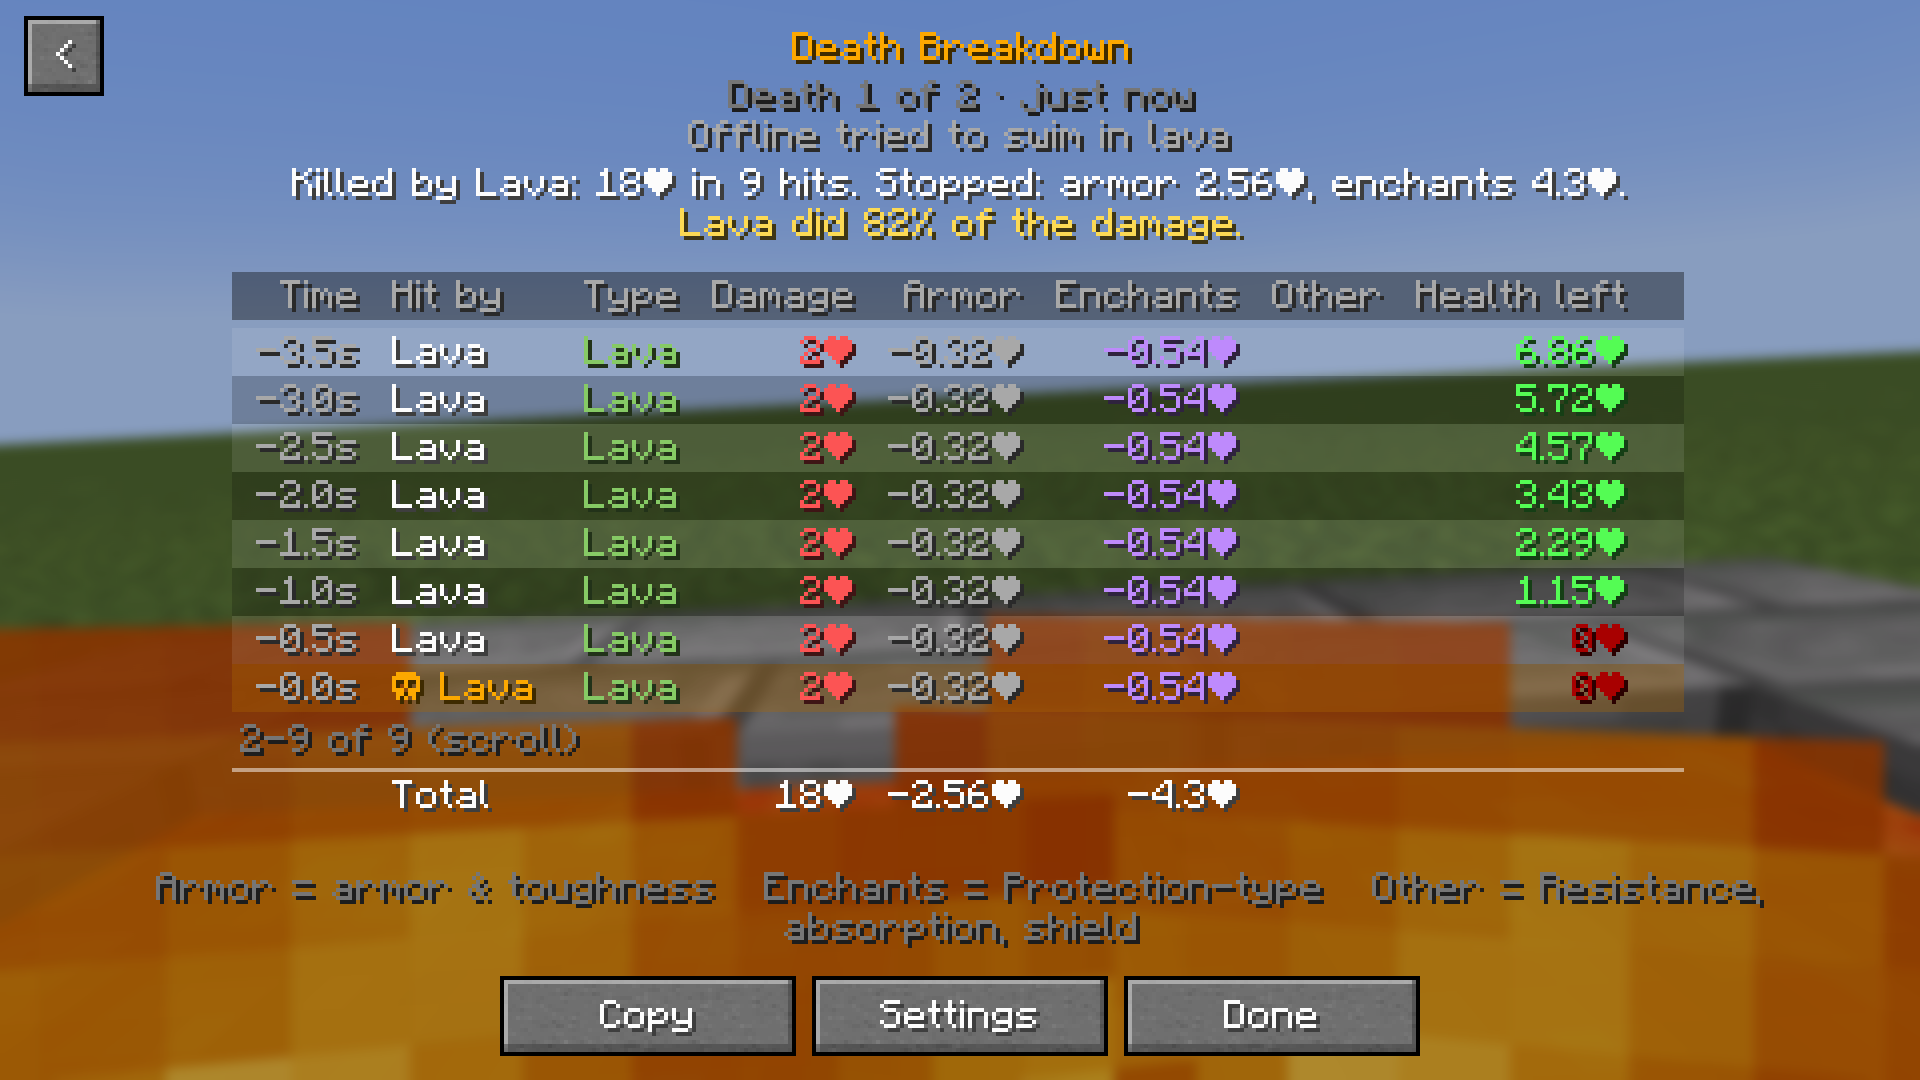
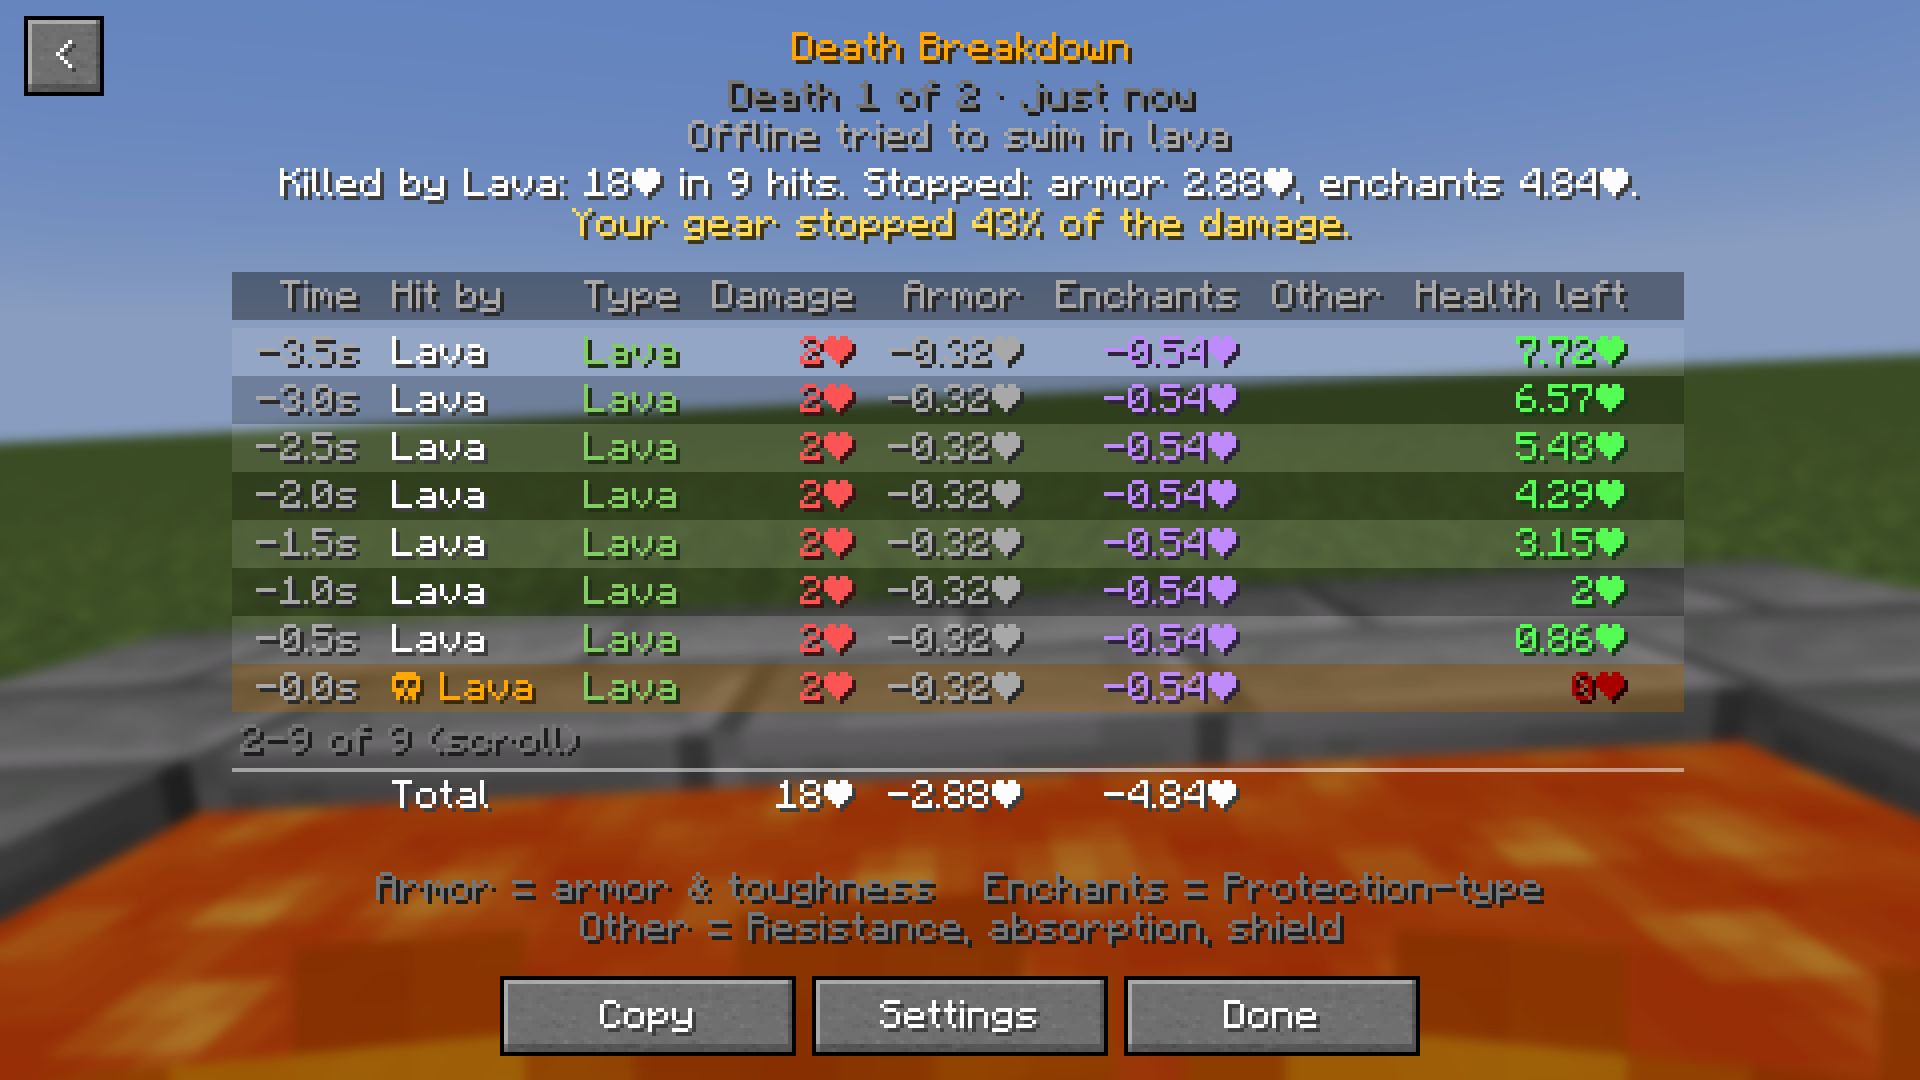
1.1.0 gallery: final shots and graphics (mod 15, plugin 14); publish uses plugin run 45008991740
Claude-Session: https://claude.ai/code/session_018RUrFUNWZAZWJggZqgw4K9

Changed region(s): [[0.0, 0.3056, 1.0, 1.0], [0.125, 0.1528, 0.875, 0.2444], [0.9062, 0.3056, 1.0, 0.3361]]

diff --git a/art/source/gallery.py b/art/source/gallery.py
@@ -172,7 +172,7 @@ def make_static():
     versions_card('Works where you play', 'One plugin jar for every Paper version',
                   ['Paper'], [(v, [True]) for v in VERSIONS],
                   ['Players need nothing installed: it all happens in chat and a book.',
-                   'Requires LogicLib Plugin 0.2.0 or newer in your plugins folder.'], 'plugin-04-versions.png', 44)
+                   'Requires LogicLib Plugin 0.2.0 or newer in your plugins folder.'], 'plugin-05-versions.png', 44)
 
 
 if __name__ == '__main__':
@@ -211,7 +211,7 @@ def three_steps(title, sub, crops, captions, out, seed):
     print('made', out)
 
 
-def grid4(title, sub, items, out, seed):
+def grid4(title, sub, items, out, seed, foot='Death Breakdown · by CosmicLogic'):
     """Four real screenshot crops in a 2x2 grid, each with a one-line caption."""
     im, d = base(seed, [(60, 40, 1860, 1040)])
     heading(d, title, sub)
@@ -219,7 +219,7 @@ def grid4(title, sub, items, out, seed):
     for (pic, cap), box in zip(items, boxes):
         panel(im, d, pic, box)
         d.text(((box[0] + box[2]) // 2, box[3] + 38), cap, font=T(30), fill=TITLE, anchor='mm')
-    footer(d)
+    footer(d, foot)
     im.save(os.path.join(OUT, out))
     print('made', out)
 
@@ -261,11 +261,11 @@ def mod_explainers():
     # What your gear blocked: three real recaps, three kinds of protection
     im, d = base(53, [(60, 40, 1860, 1040)])
     heading(d, 'See what your gear blocked', 'Armor and each Protection enchantment, in hearts')
-    crops = {'mod-recap-creeper.png': (300, 0, 1620, 640), 'mod-recap-lava.png': (232, 160, 1690, 840),
-             'mod-recap-hover.png': (232, 0, 1690, 640)}
+    crops = {'mod-recap-creeper.png': (232, 0, 1690, 640), 'mod-recap-lava.png': (232, 160, 1690, 840),
+             'mod-recap-hover.png': (232, 0, 1690, 820)}
     items = [('mod-recap-creeper.png', 'Creeper', 'Blast Protection IV', 'enchants stopped 3.71\u2665', ENCH),
-             ('mod-recap-lava.png', 'Lava', 'Fire Protection IV', 'enchants stopped 4.3\u2665', ENCH),
-             ('mod-recap-hover.png', 'Skeleton arrows', 'Iron armor', 'armor stopped 1.85\u2665', ARMOR)]
+             ('mod-recap-lava.png', 'Lava', 'Fire Protection IV', 'enchants stopped 4.84\u2665', ENCH),
+             ('mod-recap-hover.png', 'Zombie with an iron sword', 'Iron armor', 'armor stopped 9.84\u2665', ARMOR)]
     for i, (f, what, gear, num, col) in enumerate(items):
         x0 = 70 + i * 620
         panel(im, d, shot(f).crop(crops[f]), (x0, 230, x0 + 540, 560))
@@ -288,11 +288,11 @@ def mod_explainers():
 def plugin_explainers():
     im, d = base(61, [(60, 40, 1860, 1040)])
     heading(d, 'How it works on your server', 'Players see it in chat, no mod needed')
-    chat = shot('plugin-death-chat.png').crop((0, 875, 990, 1010))
+    chat = shot('plugin-death-chat.png').crop((0, 840, 1000, 970))
     px, py, sc = panel(im, d, chat, (170, 190, 1750, 380))
     stext(d, (110, (py + py + chat.height * sc) / 2), '1', F(40), SUB, 'mm', sh=3)
     d.text((W // 2, py + chat.height * sc + 46), 'After each death: a one-line summary in chat', font=T(32), fill=TITLE, anchor='mm')
-    hover = shot('plugin-chat-hover.png').crop((380, 40, 1240, 1080))
+    hover = shot('plugin-chat-hover.png').crop((380, 420, 1050, 1080))
     book = shot('plugin-book-mobs.png').crop((560, 0, 1360, 760))
     a1 = panel(im, d, hover, (250, 500, 860, 945))
     a2 = panel(im, d, book, (1060, 500, 1670, 945))
@@ -311,17 +311,24 @@ def plugin_explainers():
     a = panel(im, d, p1, (420, 200, 960, 960))
     b = panel(im, d, p2, (1000, 200, 1540, 960))
     px, py, s = a
-    for text, y, ty, col in [('What killed you', 330, 420, SUB), ('Total damage', 482, 600, DMG), ('Armor + enchants', 520, 760, ARMOR)]:
+    for text, y, ty, col in [('What killed you', 285, 330, SUB), ('Total damage', 357, 490, DMG), ('Armor + enchants', 411, 650, ARMOR), ('A tip (new)', 501, 810, SUB)]:
         l, t, r, bb = tag(d, (230, ty), text, col, T(28), anchor='mm')
-        arrow(d, (r + 4, ty), (px + 90 * s, py + y * s), col=col, w=5, head=16)
+        arrow(d, (r + 4, ty), (px + 110 * s, py + y * s), col=col, w=5, head=16)
     px, py, s = b
-    for text, y, ty, col in [('One page per hit', 141, 380, SUB), ('Every number', 480, 620, ARMOR)]:
+    for text, y, ty, col in [('One page per hit', 141, 380, SUB), ('Every number', 430, 620, ARMOR)]:
         l, t, r, bb = tag(d, (1720, ty), text, col, T(28), anchor='mm')
         arrow(d, (l - 4, ty), (px + 600 * s, py + y * s), col=col, w=5, head=16)
     d.text((1720, 690), 'for that hit', font=T(28), fill=ARMOR, anchor='mm')
     footer(d, 'Death Breakdown Plugin · by CosmicLogic')
     im.save(os.path.join(OUT, 'plugin-03-recap-book.png'))
     print('made plugin-03-recap-book.png')
+
+    grid4('New in 1.1.0', 'History, a tip line, copy, and help', [
+        (shot('plugin-history.png'), '/db history: your last 5 deaths, click to open'),
+        (shot('plugin-book-mobs.png').crop((600, 240, 1320, 600)), 'A tip in the hover and the book'),
+        (shot('plugin-death-chat.png').crop((0, 840, 1000, 970)), '[copy] puts it on your clipboard (1.15+)'),
+        (shot('plugin-help.png'), '/db help: every command, explained')],
+        'plugin-04-new-in-1-1.png', 63, 'Death Breakdown Plugin · by CosmicLogic')
 
 
 if __name__ == '__main__':

diff --git a/CHANGELOG.md b/CHANGELOG.md
@@ -12,7 +12,7 @@
 - The chat hover shows the newest 6 hits (older ones are summed up), so it always fits on the screen.
 - Pressing K after leaving and rejoining a server brings back your saved recap.
 - `/db reload` and the log say exactly what was wrong in the config file, and bad values fall back to the defaults. Your 1.0.0 settings are kept.
-- The recap screen fits at big GUI scales and in small windows: the legend wraps and long names are shortened.
+- The recap screen fits at big GUI scales and in small windows: the legend wraps between its entries and long names are shortened.
 
 ### Fixed
 - The one-line chat summary after a death never appeared when you had the mod installed.
